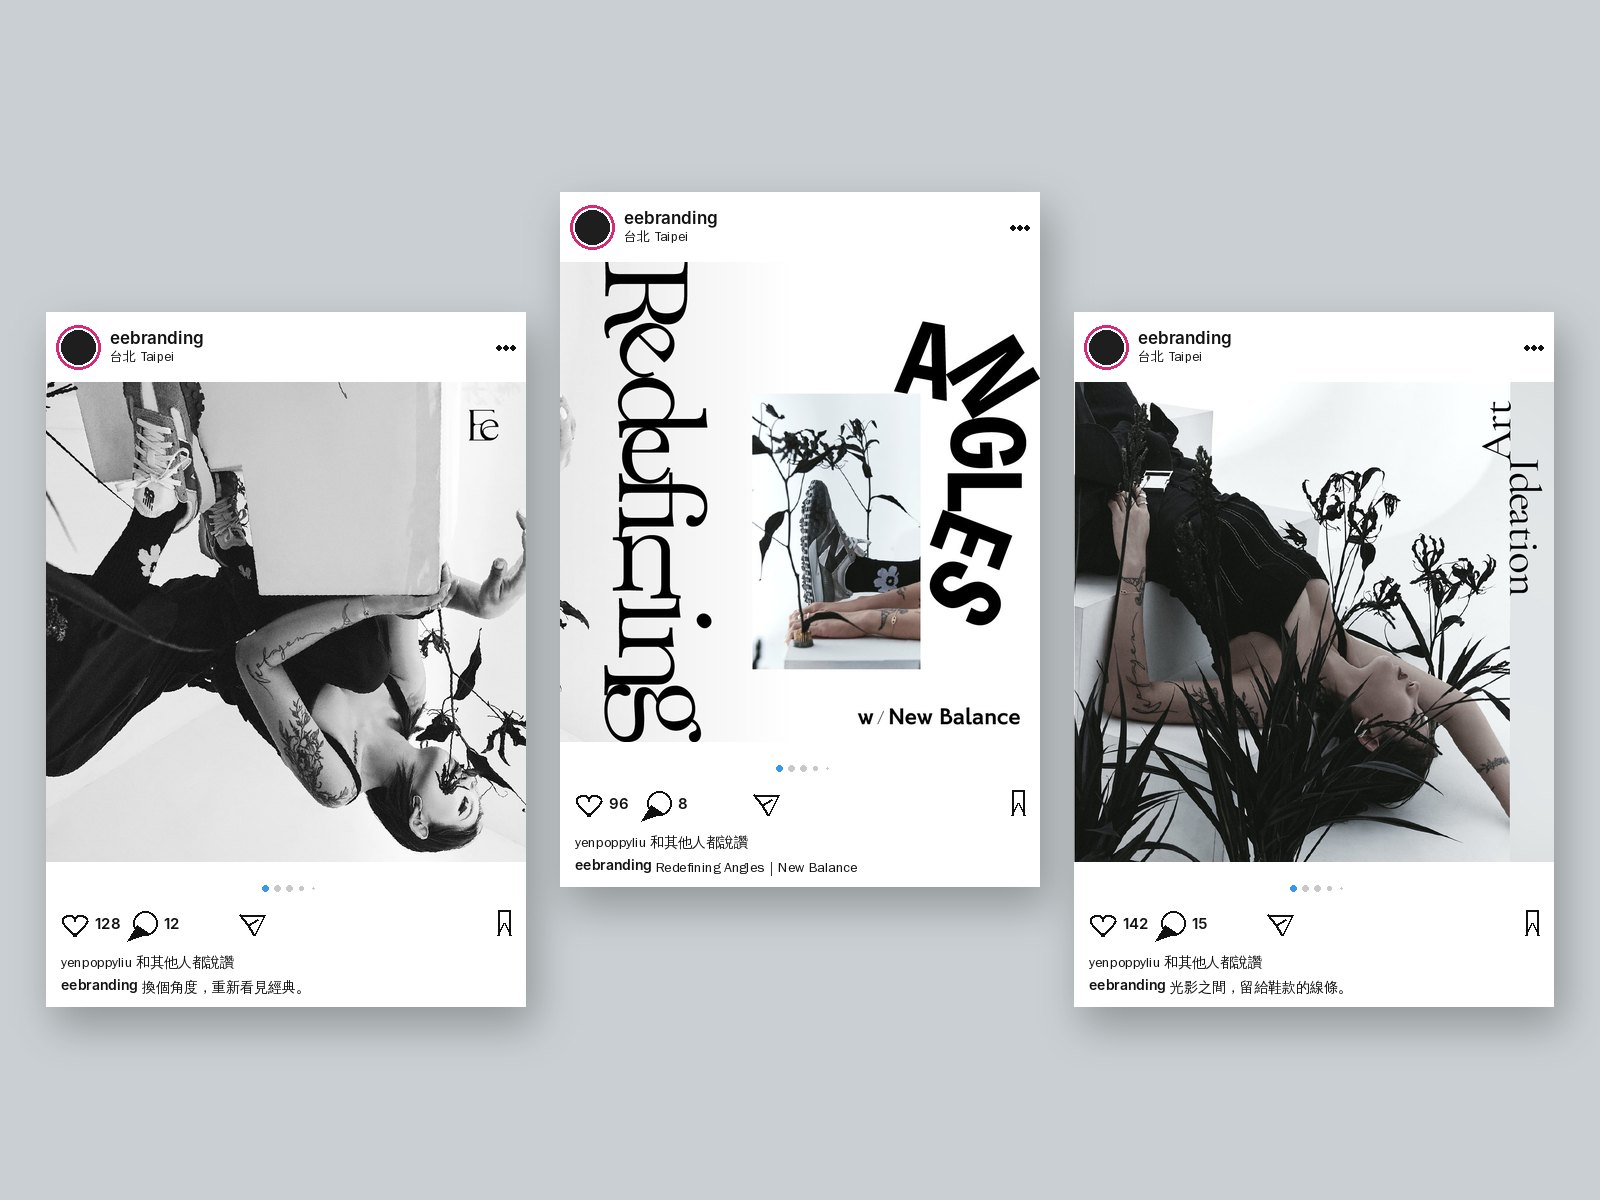
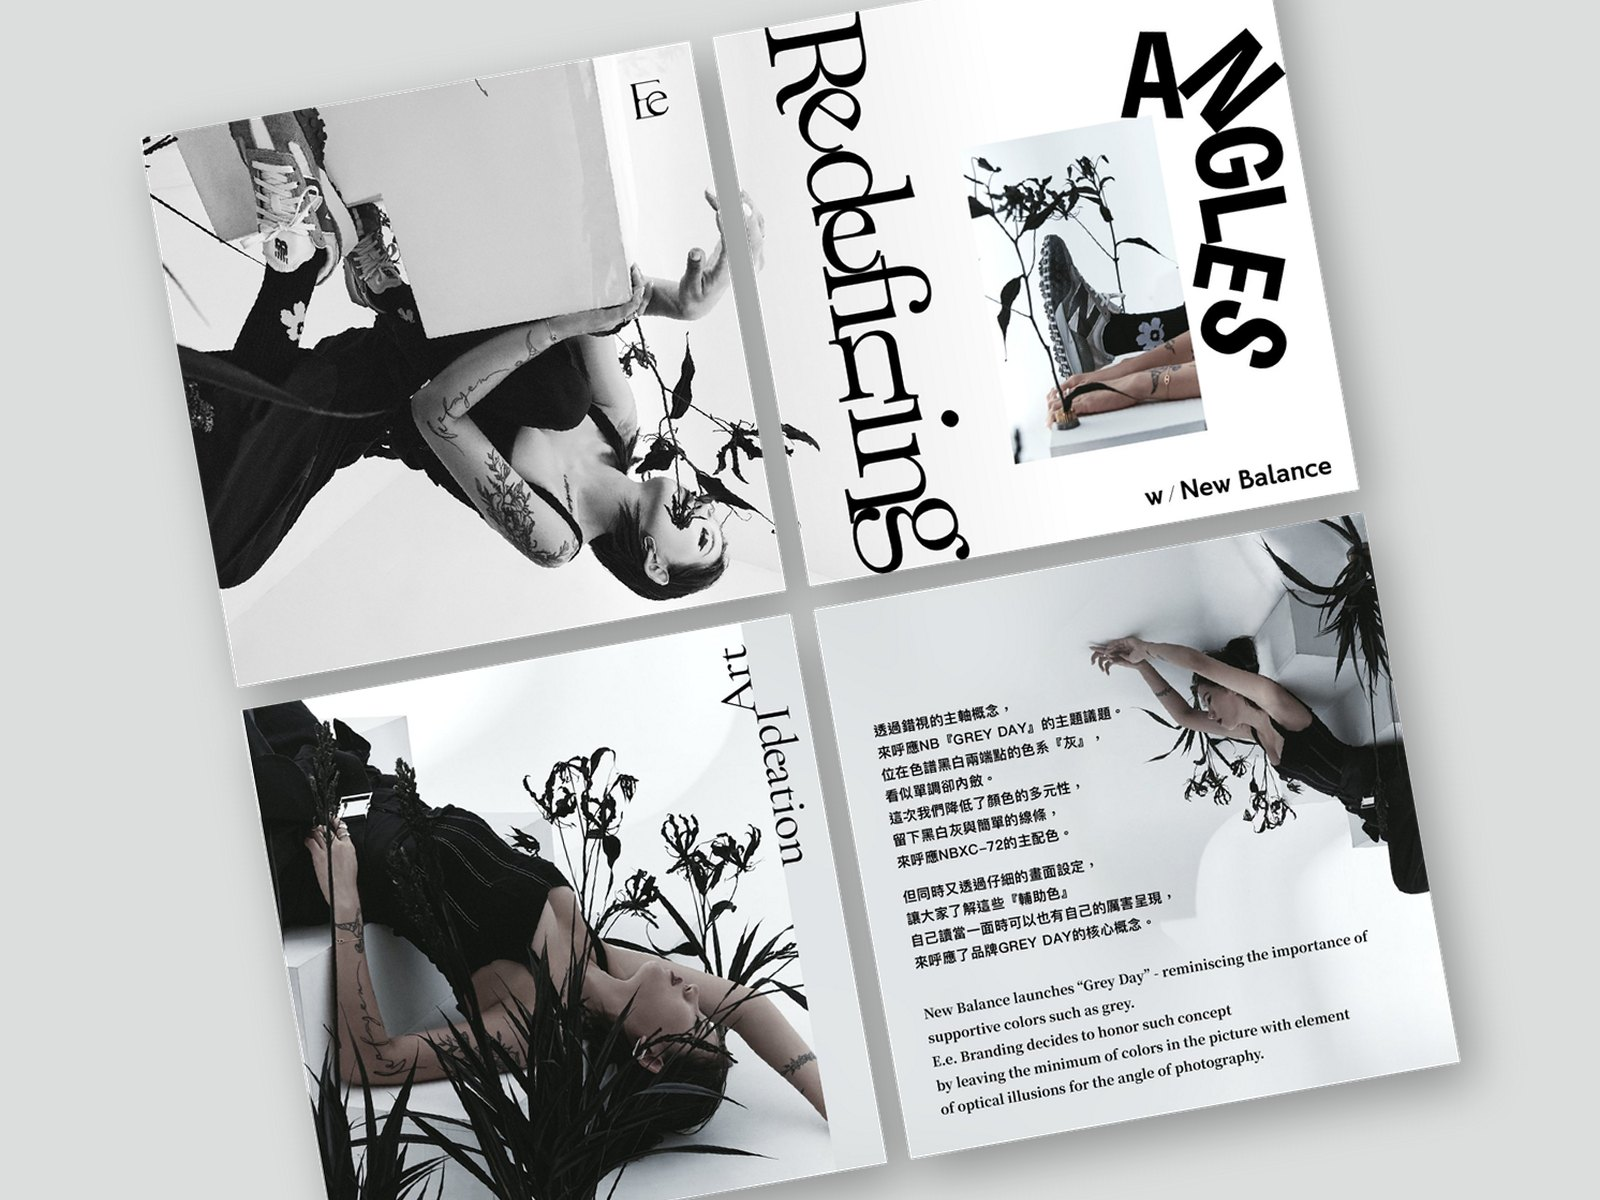
Quote page: tighten copy for mobile; NB cover back to first grid version
Claude-Session: https://claude.ai/code/session_01U5M1fwUP5mHGQPXT8UhzPu

diff --git a/quote/index.html b/quote/index.html
@@ -374,7 +374,7 @@ section[aria-labelledby="h4"] input, section[aria-labelledby="h4"] textarea { ba
   .step-h .no b { font-size: 28px !important; }
   .step-h h2 { grid-column: 2; }
   .step-h p { grid-column: 1 / -1; margin-top: 4px; }
-  .step-h:not(:has(.no)) h2, section[aria-labelledby="h4"] .step-h h2 { grid-column: 1 / -1; }
+  .step-h:not(:has(.no)) h2 { grid-column: 1 / -1; }
 }
 </style>
 </head>
@@ -396,27 +396,27 @@ section[aria-labelledby="h4"] input, section[aria-labelledby="h4"] textarea { ba
   <header class="pg-head">
     <p class="pg-head__en">CONTACT</p>
     <h1 class="pg-head__title">合作洽詢</h1>
-    <p class="pg-head__lead">想做什麼設計，可以先在下面估個預算和時間；已經想好了，也可以<a href="#h4">直接留言</a>。</p>
-    <p class="pg-head__mail">也可以直接寫信：<a href="mailto:yenchunpoppy@gmail.com">yenchunpoppy@gmail.com</a></p>
+    <p class="pg-head__lead">先估預算和時間，或<a href="#h4">直接留言</a>。</p>
+    <p class="pg-head__mail">Email：<a href="mailto:yenchunpoppy@gmail.com">yenchunpoppy@gmail.com</a></p>
   </header>
 
   <div class="layout">
     <div class="steps">
       <section aria-labelledby="h1">
-        <div class="step-h"><span class="no">STEP <b>01</b></span><h2 id="h1">想做哪些設計？</h2><p>可以多選，數量之後也能改。</p></div>
+        <div class="step-h"><span class="no">STEP <b>01</b></span><h2 id="h1">想做哪些設計？</h2><p>可多選，數量之後能改。</p></div>
         <div class="cats" role="tablist" id="cats"></div>
         <p class="cat-intro" id="catIntro"></p>
         <div class="items" id="items"></div>
         <div class="field other"><label for="otherNeed">其他想做的 <small class="opt-tag">選填</small></label>
-          <textarea id="otherNeed" maxlength="300" placeholder="選單裡沒有的，或想做的和上面不太一樣，都可以寫在這裡"></textarea></div>
+          <textarea id="otherNeed" maxlength="300" placeholder="選單沒有的，寫在這裡"></textarea></div>
       </section>
 
       <section aria-labelledby="h2">
-        <div class="step-h"><span class="no">STEP <b>02</b></span><h2 id="h2">視覺靈感方向</h2><p>這些只是初步參考，不代表最終風格。可以選 1–2 種，不確定也可以上傳參考圖，我們再一起找最適合的方向。</p></div>
+        <div class="step-h"><span class="no">STEP <b>02</b></span><h2 id="h2">視覺靈感方向</h2><p>選 1–2 種，或上傳參考圖。</p></div>
         <div class="styles" id="styles"></div>
         <div class="refs">
           <div class="field"><span class="lbl">參考圖 <small class="opt-tag">選填</small></span>
-            <label class="drop" id="drop" for="refPick"><b>選擇圖片</b>或拖曳進來<small>最多 3 張，合計 8MB 以內，草圖也可以</small></label>
+            <label class="drop" id="drop" for="refPick"><b>選擇圖片</b>或拖曳進來<small>最多 3 張、8MB，草圖也可以</small></label>
             <input type="file" id="refPick" accept="image/*,application/pdf" multiple hidden>
             <div class="thumbs" id="thumbs"></div>
             <p class="refnote" id="refNote" role="status"></p></div>
@@ -426,12 +426,12 @@ section[aria-labelledby="h4"] input, section[aria-labelledby="h4"] textarea { ba
       </section>
 
       <section aria-labelledby="hp">
-        <div class="step-h"><span class="no">STEP <b>03</b></span><h2 id="hp">提案與修改</h2><p>提案是一開始給你看的設計方向，修改是選定後的調整次數。</p></div>
+        <div class="step-h"><span class="no">STEP <b>03</b></span><h2 id="hp">提案與修改</h2><p>提案是初步方向，修改是選定後的調整。</p></div>
         <div class="styles plans" id="plans"></div>
       </section>
 
       <section aria-labelledby="h3">
-        <div class="step-h"><span class="no">STEP <b>04</b></span><h2 id="h3">希望什麼時候完成？</h2><p>填個日期，看看時間來不來得及。</p></div>
+        <div class="step-h"><span class="no">STEP <b>04</b></span><h2 id="h3">希望什麼時候完成？</h2><p>填日期，看時間來不來得及。</p></div>
         <div class="form">
           <div class="field"><label for="want">希望完成日期</label><input type="date" id="want"></div>
           <div class="field full"><span class="lbl">其他需求</span>
@@ -440,13 +440,13 @@ section[aria-labelledby="h4"] input, section[aria-labelledby="h4"] textarea { ba
               <label><input type="checkbox" id="needPrint"> 需要協助印刷</label>
               <label><input type="checkbox" id="needInvoice"> 需要開發票</label>
             </div>
-            <p class="note inv-note">如需開立統一發票，請於洽談時事先告知，將依實際開立方式確認相關費用。</p></div>
+            <p class="note inv-note">需要發票請洽談時告知。</p></div>
         </div>
       </section>
 
       <div id="resultSlot" class="result-slot"></div>
       <section aria-labelledby="h4">
-        <div class="step-h"><span class="no">STEP <b>05</b></span><h2 id="h4">想一起合作嗎？留下聯絡方式</h2><p>有沒有用上面的估價都可以，留個聯絡方式，我會再跟你確認細節和檔期。</p></div>
+        <div class="step-h"><span class="no">STEP <b>05</b></span><h2 id="h4">留下聯絡方式</h2><p>沒估價也可以，我會再跟你確認細節。</p></div>
         <form class="form" id="inq" name="inquiry" novalidate>
           <input type="hidden" name="summary" id="summaryField">
           <input type="hidden" name="links" id="linksField">
@@ -456,9 +456,9 @@ section[aria-labelledby="h4"] input, section[aria-labelledby="h4"] textarea { ba
           <div class="field"><label for="brand">品牌名稱 <small class="opt-tag">選填</small></label><input type="text" id="brand" name="brand"></div>
           <div class="field full"><label for="contact">Email 或 LINE ID</label><input type="text" id="contact" name="contact" required></div>
           <div class="field full about"><span class="lbl">你的身分 <small class="opt-tag">選填</small></span><div class="chips" id="roles"></div></div>
-          <div class="field full"><label for="msg">想補充的內容 <small class="opt-tag">選填</small></label><textarea id="msg" name="message" placeholder="品牌介紹、使用情境、想要的感覺都可以寫"></textarea></div>
+          <div class="field full"><label for="msg">想補充的內容 <small class="opt-tag">選填</small></label><textarea id="msg" name="message" placeholder="品牌介紹、想要的感覺"></textarea></div>
           <div class="field full"><button class="primary" type="submit" id="send">送出</button></div>
-          <p class="note q-fine field full">試算僅供參考，實際金額以正式報價為準。試算選項會統計，只用來了解大家的需求，不會另作他用。</p>
+          <p class="note q-fine field full">試算僅供參考，以正式報價為準。</p>
         </form>
         <div class="sent" id="sent" hidden></div>
       </section>
@@ -599,7 +599,7 @@ section[aria-labelledby="h4"] input, section[aria-labelledby="h4"] textarea { ba
         <ul class="picked">${r.ls.map(l => `<li><span>${esc(l.name)} × ${l.qty}</span></li>`).join('')}</ul>
         ${miss.length ? `<div class="status${st.nudge ? ' warn' : ''}">再選一下上方的${miss.join('和')}，就能看到試算結果。</div>` : ''}
         <button class="primary" type="button" data-reveal>看試算結果</button>
-        <p class="note">看試算結果不需要留聯絡方式，只會記錄你選的項目和稱呼。想正式合作，再到最下面填聯絡資料。</p>`;
+        <p class="note">看結果不用留聯絡方式，想合作再填最下面。</p>`;
       $('#mbar').innerHTML = `<span>已選 ${r.ls.length} 個項目</span><button class="mbtn" type="button" data-reveal>看試算結果</button>`;
       return;
     }
@@ -618,7 +618,7 @@ section[aria-labelledby="h4"] input, section[aria-labelledby="h4"] textarea { ba
       ${status}
       <ul class="picked">${r.ls.map(l => `<li><span>${esc(l.name)} × ${l.qty}</span><span>${Y.num(l.min * l.qty)}${l.max > l.min ? '–' + Y.num(l.max * l.qty) : ''}</span></li>`).join('')}
         ${r.ai ? `<li><span>原始檔</span><span>${Y.num(r.ai)}</span></li>` : ''}</ul>
-      <p class="note">提案 ${r.plan.proposals} 款，含 ${r.plan.revisions} 次修改，之後每次 NT$${Y.num(C.revisionFee)}。工作天不含週末，從確認報價、收到訂金和素材的隔天開始算。每個月只接少量案子，檔期以付訂順序安排。${$('#needPrint').checked || r.ls.some(l => l.print) ? '印刷和材料費另計。' : ''}</p>
+      <p class="note">提案 ${r.plan.proposals} 款，含 ${r.plan.revisions} 次修改，之後每次 NT$${Y.num(C.revisionFee)}。工作天不含週末，付訂並收到素材隔天起算。${$('#needPrint').checked || r.ls.some(l => l.print) ? '印刷和材料費另計。' : ''}</p>
       <a href="#h4" class="primary" style="text-decoration:none">想合作，留下聯絡方式</a>`;
     $('#mbar').innerHTML = `<span>${rng(r)}<br><small>最快 ${Y.short(r.earliest)} 完成</small></span><a href="#result">看明細</a>`;
   }

diff --git a/quote/catalog.js b/quote/catalog.js
@@ -132,7 +132,7 @@ window.CATALOG = {
     {
       id: 'pkg', name: '包裝設計', intro: '依包材類型計價',
       items: [
-        { id: 'p-pkg', name: '包裝設計', print: true, desc: '都是用現成盒型做平面設計。需要開新刀模、設計新結構，會另外報價', options: [
+        { id: 'p-pkg', name: '包裝設計', print: true, desc: '用現成盒型做平面設計，新結構另報價', options: [
           { id: 'flat', name: '平面包材', unit: '款', price: 25000, min: 22500, max: 28700, days: 12, desc: '頭卡、標籤、吊卡' },
           { id: 'box', name: '單一盒袋', unit: '款', price: 48000, min: 43200, max: 55200, days: 18, desc: '一個紙盒、立袋或罐標' },
           { id: 'gift', name: '禮盒組合', unit: '套', price: 70000, min: 63000, max: 80500, days: 30, desc: '外盒＋內襯＋卡片等多件一起設計' }
@@ -147,13 +147,13 @@ window.CATALOG = {
       id: 'visual', name: '視覺與印刷', intro: '主視覺與各種印刷品',
       items: [
         { id: 'p-kv', name: '主視覺設計', unit: '式', price: 28000, min: 25200, max: 32200, days: 14,
-          desc: '活動、新品、檔期都適用。設計 1 款主視覺，再延伸成 3 種尺寸，例如海報、IG 貼文、橫幅' },
+          desc: '1 款主視覺＋延伸 3 種尺寸' },
         { id: 'p-printed', name: '印刷品', print: true, options: [
           { id: 'dm', name: '單頁 DM', unit: '款', price: 4000, min: 3600, max: 4600, days: 7, desc: '單張雙面，含小卡、明信片' },
           { id: 'dm-fold', name: '摺頁 DM', unit: '款', price: 8000, min: 7200, max: 9200, days: 10, desc: '對摺或三摺' },
           { id: 'poster', name: '海報', unit: '款', price: 6000, min: 5400, max: 6900, days: 10 }
         ] },
-        { id: 'p-catalog', name: '型錄／手冊', print: true, desc: '封面＋版型設定＋內頁編排。更多頁數可寫在下方「其他想做的」', options: [
+        { id: 'p-catalog', name: '型錄／手冊', print: true, desc: '封面＋版型＋內頁編排', options: [
           { id: 'p8', name: '8 頁', unit: '本', price: 20000, min: 18000, max: 23000, days: 15 },
           { id: 'p16', name: '16 頁', unit: '本', price: 32000, min: 28800, max: 36800, days: 20 },
           { id: 'p24', name: '24 頁', unit: '本', price: 44000, min: 39600, max: 50600, days: 25 }
@@ -175,7 +175,7 @@ window.CATALOG = {
       id: 'web', name: '網站設計', intro: '品牌官網與商品頁',
       items: [
         { id: 'p-site', name: '網站設計', options: [
-          { id: 'brand', name: '形象官網', unit: '式', price: 59000, min: 53100, max: 67800, days: 25, desc: '首頁＋3 個內頁（如關於、服務、聯絡），含網站建置' },
+          { id: 'brand', name: '形象官網', unit: '式', price: 59000, min: 53100, max: 67800, days: 25, desc: '首頁＋3 個內頁，含建置' },
           { id: 'long', name: '商品長頁', unit: '頁', price: 22000, min: 19800, max: 25300, days: 15 }
         ] },
         { id: 'p-page', name: '加購內頁', unit: '頁', price: 8000, min: 7200, max: 9200, days: 3,
@@ -204,19 +204,19 @@ window.CATALOG = {
   // 風格本身不分貴賤；只有原創插畫因為工時多，區間較高
   styles: [
     { id: 'minimal', name: '極簡現代', en: 'MINIMAL', level: 1, rate: [1, 1.1],
-      desc: '大量留白、有限配色與清晰字體，俐落理性', eg: '科技、顧問、精品品牌' },
+      desc: '留白多、配色少', eg: '科技、顧問、精品品牌' },
     { id: 'soft', name: '柔和自然', en: 'SOFT', level: 2, rate: [1, 1.1],
-      desc: '低飽和配色與柔和質感，溫潤有空氣感', eg: '咖啡、保養、生活風格品牌' },
+      desc: '柔和低飽和', eg: '咖啡、保養、生活風格品牌' },
     { id: 'vintage', name: '復古經典', en: 'VINTAGE', level: 2, rate: [1, 1.1],
-      desc: '以年代感字體、配色與紋理營造懷舊氛圍', eg: '老字號、餐飲、文創商品' },
+      desc: '年代感與紋理', eg: '老字號、餐飲、文創商品' },
     { id: 'luxe', name: '典雅精緻', en: 'LUXURY', level: 3, rate: [1, 1.1],
-      desc: '細緻紋樣、燙金與襯線字體，呈現高級感', eg: '禮盒、婚禮、高單價商品' },
+      desc: '紋樣與燙金', eg: '禮盒、婚禮、高單價商品' },
     { id: 'playful', name: '活潑親和', en: 'PLAYFUL', level: 3, rate: [1, 1.1],
-      desc: '明亮配色與圓潤造型，輕鬆好親近', eg: '零食、親子、年輕品牌' },
+      desc: '明亮又親近', eg: '零食、親子、年輕品牌' },
     { id: 'illus', name: '插畫手繪', en: 'ILLUSTRATION', level: 4, rate: [1.3, 1.6],
-      desc: '以原創插畫為主視覺，工時較多，價格會高一些', eg: '插畫包裝、角色、插畫主視覺' },
+      desc: '原創插畫為主', eg: '插畫包裝、角色、插畫主視覺' },
     { id: 'unsure', name: '還不確定', en: 'NOT SURE', level: 0, rate: [1, 1.15],
-      desc: '可以上傳參考圖，再一起判斷方向', eg: '' }
+      desc: '上傳參考圖，再一起找', eg: '' }
   ],
 
   // 估價頁「關於你」：了解詢價的人是誰（選填）
